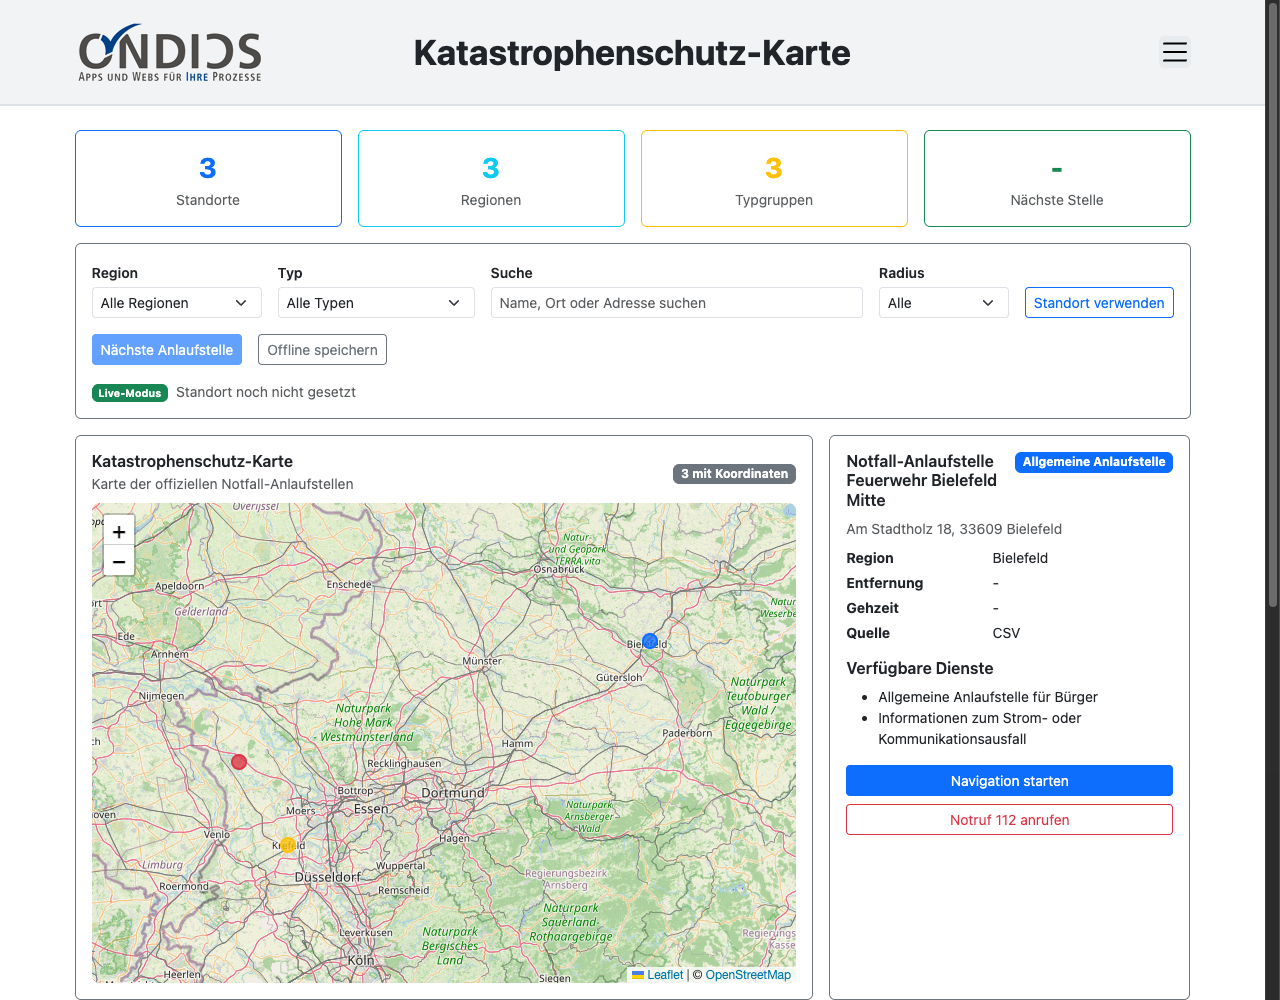
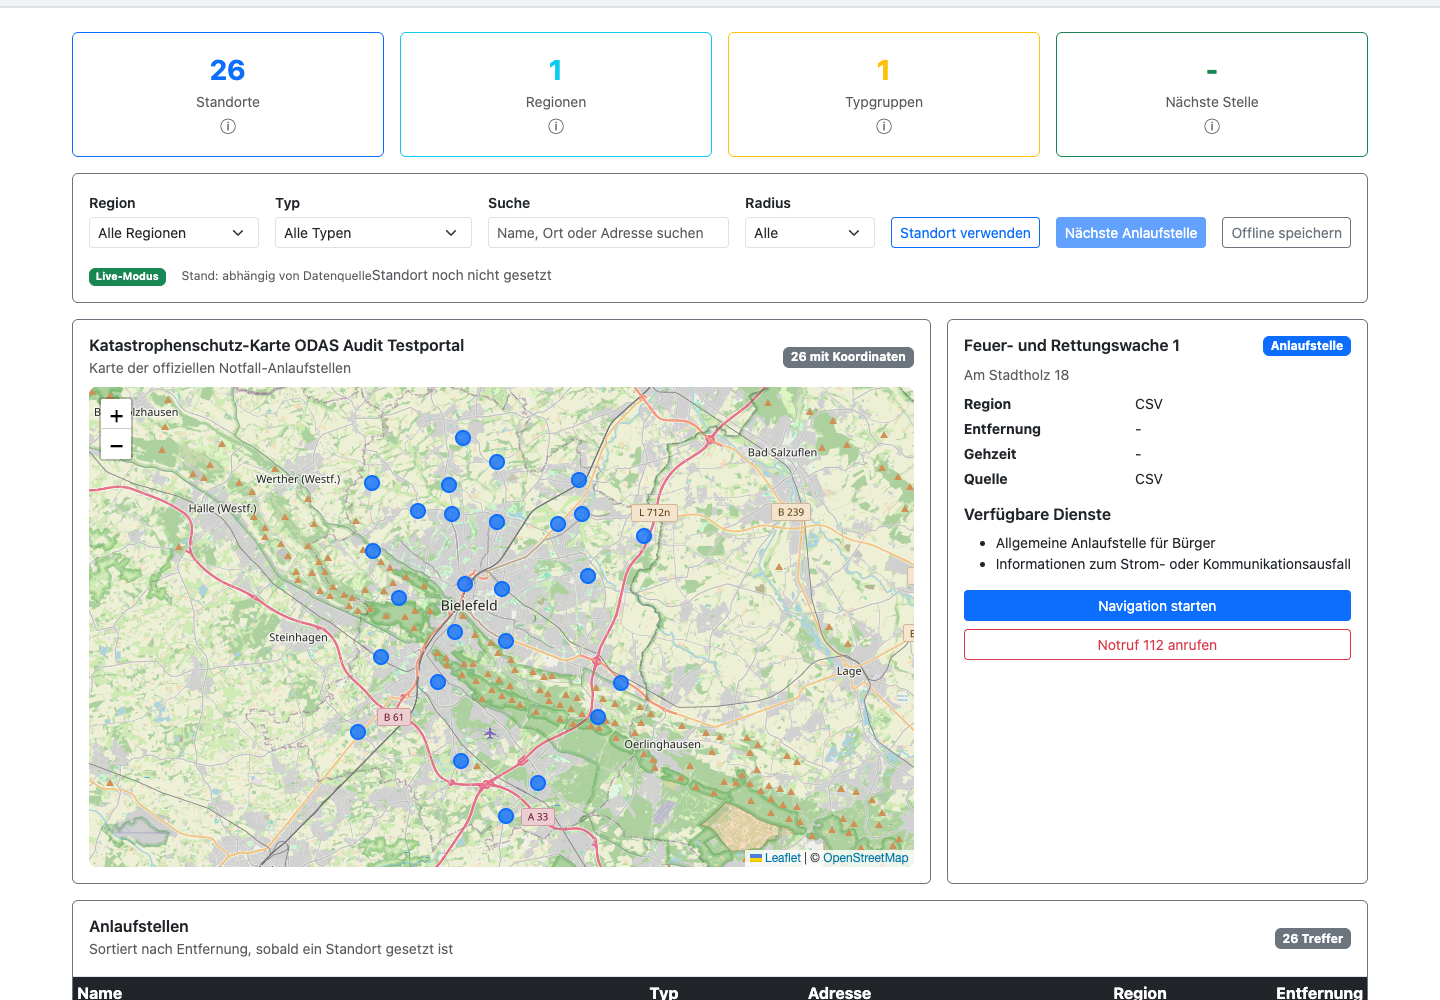
docs: neue Store-Screenshots, je 3 Desktop und 3 Mobile (1.25.11)
Aufgenommen auf der Dev-Instanz mit dem aktuellen App-Stand (1440x1000 bzw. 390x844, Ladepruefung vor jeder Aufnahme). Bisherige Bilder nach docs/screenshots/archive/2026-10-13/ verschoben. Kein App-Code geaendert.

diff --git a/CHANGELOG.md b/CHANGELOG.md
@@ -1,5 +1,8 @@
 # Changelog
 
+## 1.25.11 - 2026-10-15
+- DOCS: Neue Store-Screenshots: je drei Desktop- (1440 × 1000) und Mobile-Aufnahmen (390 × 844) der aktuellen App, aufgenommen auf der Dev-Instanz. Bisherige Bilder nach `docs/screenshots/archive/2026-10-13/` verschoben. Keine Änderung an App-Code oder Konfiguration.
+
 ## 1.25.10 - 2026-10-13
 - FIX: Standard-Fehleranzeige gibt präzisere Tipps: ein „Failed to fetch“ ohne Proxy-Kontext erhält einen Netzwerk-Hinweis statt `proxyAktiv`; der 404-Hinweis gilt nur noch für echte HTTP-404-Antworten und nennt den lokal fehlenden Proxy/Relay statt pauschal „Datensatz auf dem Portal nicht gefunden“.
 
